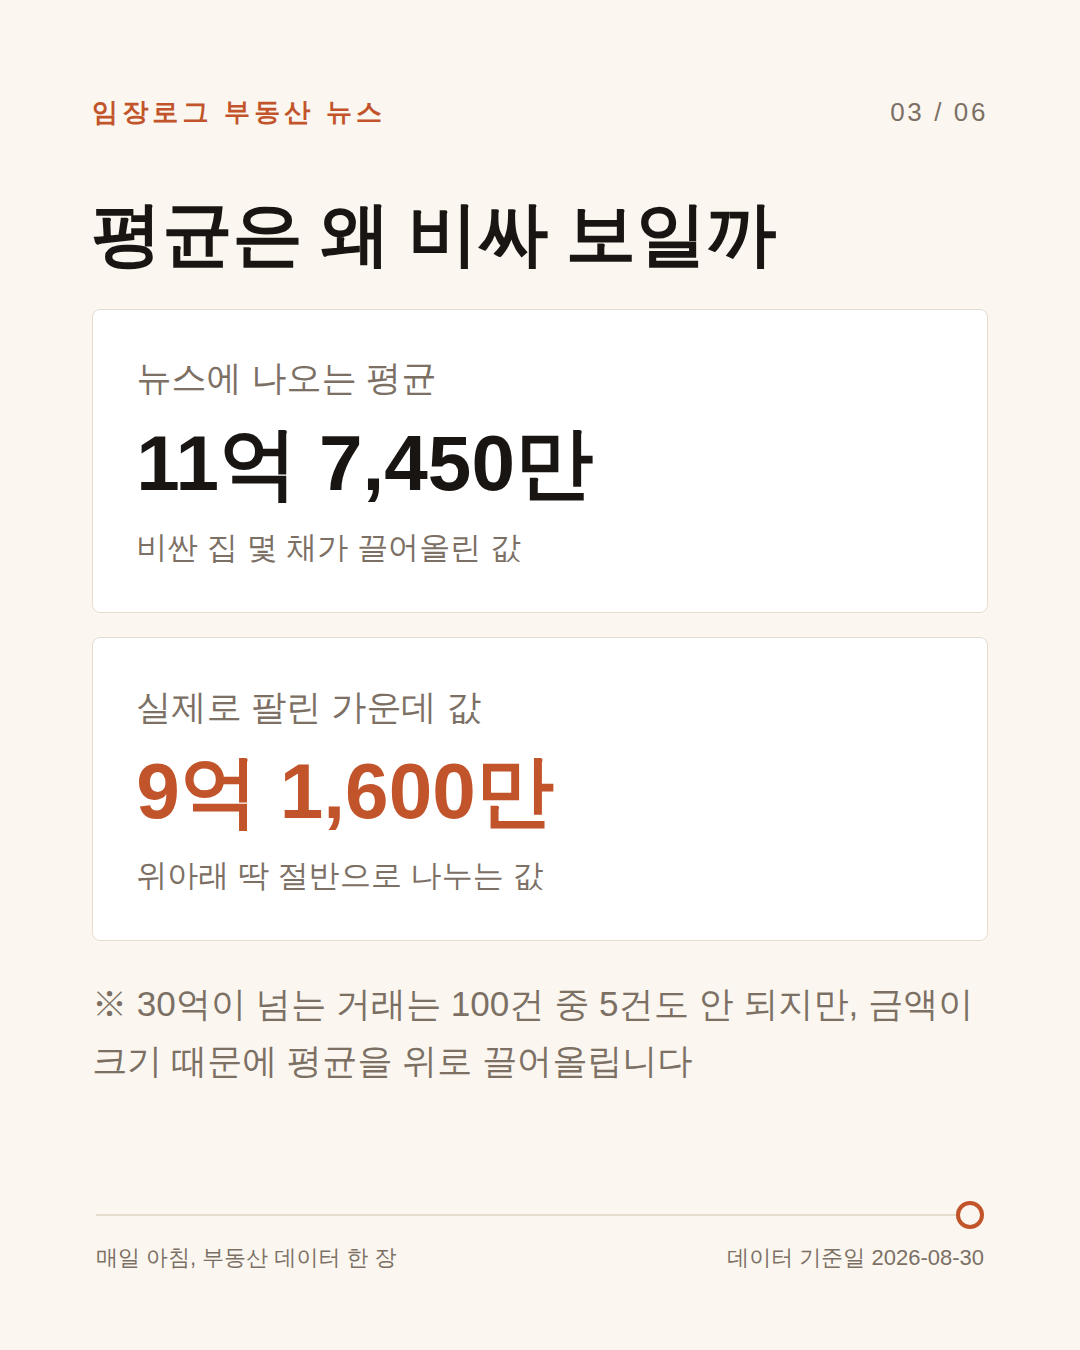
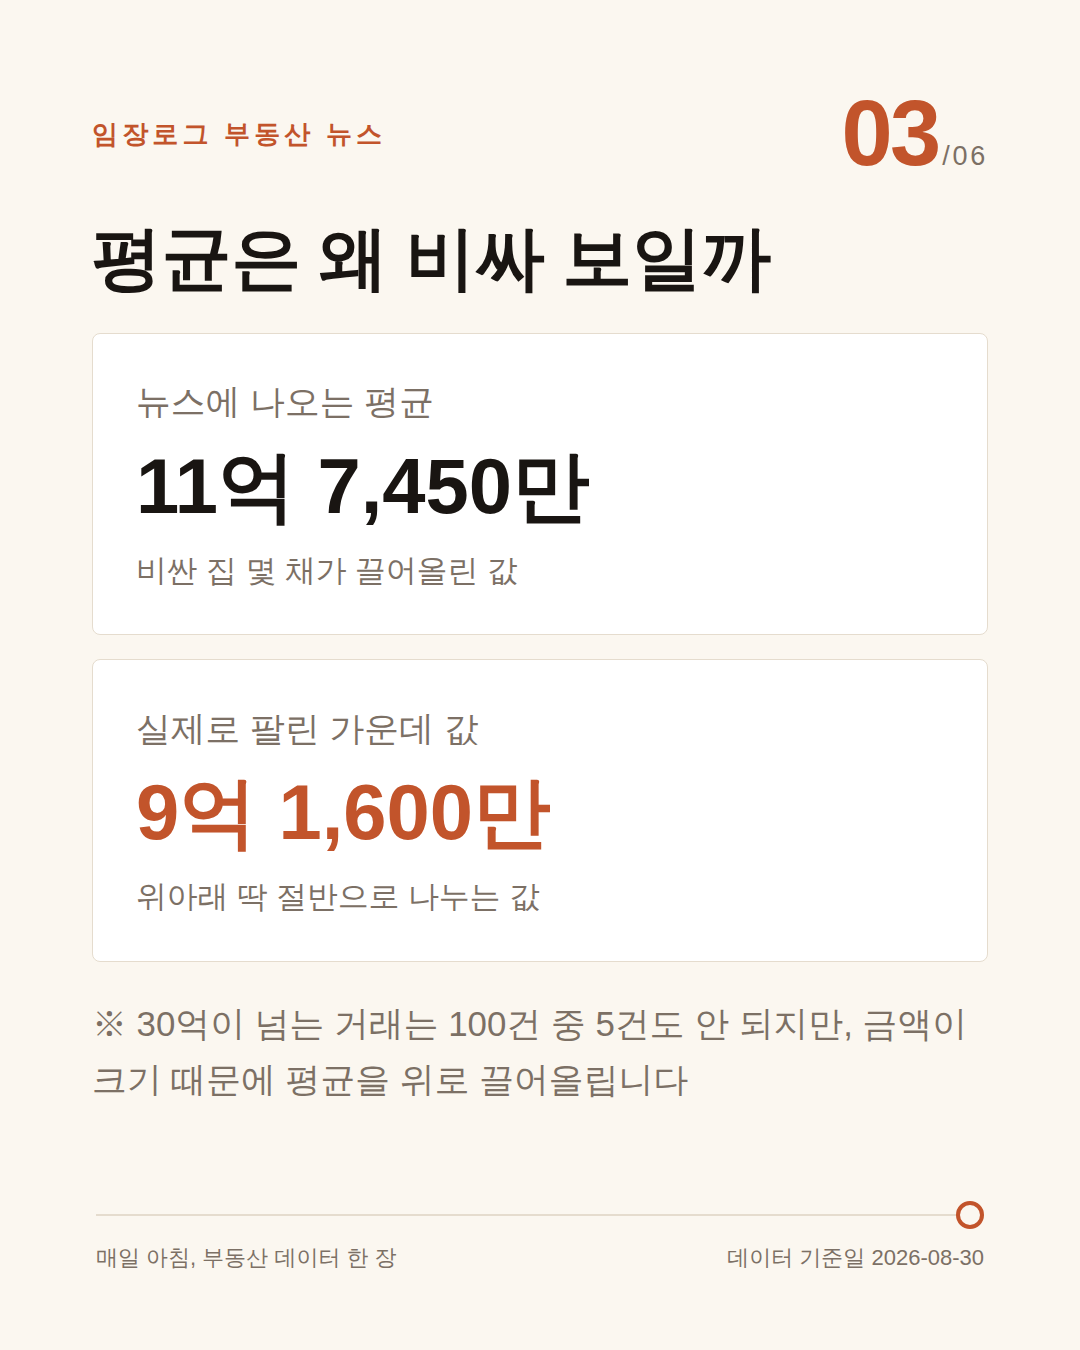
캐러셀 저장 순서가 뒤섞이는 문제 수정
사용자 보고: 이미지를 다운받으면 캐러셀 순서가 섞인다.

■ 원인은 우리 코드가 아니었다 (실측으로 확인)
  페이지는 01→06 순서로 넘긴다. data-files 순서, DOM 순서, Promise.all(순서 보존)
  모두 정상이었다. 문제는 넘긴 뒤다.
  **폰 갤러리와 인스타 사진 선택 화면은 파일명이 아니라 '추가된 시각'으로 정렬한다.**
  6장을 한꺼번에 저장하면 시각이 사실상 같아져 상대 순서가 정해지지 않는다.
  파일명에 01~06을 박아 둬도 아무도 그걸 읽지 않는다.
  기존 코드의 350ms 간격은 초 단위로 기록되는 갤러리에서 같은 초에 몰렸다.

■ 세 겹으로 막았다
  ① 한 장씩 **1.1초 간격**으로 저장한다. 간격이 1초를 넘어야 초 단위 기록에서도
     6장의 시각이 확실히 갈린다. 실측: 1101ms씩 정확히 벌어진다.
  ② **6번부터 거꾸로** 저장한다 → 최신순으로 보이는 목록에서 1번이 맨 앞에 온다.
     실측 저장 순서 06 → 05 → 04 → 03 → 02 → 01.
     공유 시트(iOS)에 넘기는 배열도 같은 이유로 뒤집었다. 사진앱이 배열 순서대로
     시각을 매기면 같은 효과가 나고, 아니어도 손해는 없다.
  ③ **카드 오른쪽 위 번호를 92px로 키웠다** (make_carousel.py, 캐러셀 전용).
     ①②가 기기별로 어긋나더라도 눈으로 순서를 확인할 수 있어야 한다.
     인스타 사진 선택 화면 크기(3열 · 130px 썸네일)로 축소해 판독성을 확인했다.
     1:1 블로그 카드는 26px 그대로다.
  안내 문구도 고쳤다: "1번부터 찾아서 탭" → "맨 앞이 1번, 헷갈리면 큰 번호를 보세요".

■ 곁들여
  어제 글을 복제해 쓰는 구조라 HAS_CSS/HAS_JS 가드가 CSS·JS 재삽입을 막는다.
  도구만 고치면 오늘 글에는 어제 판이 남으므로 오늘 글의 JS 를 도구 현재 버전과
  맞춰 뒀다(릴스 잔재 · 나레이션 배선 포함). 내일부터는 복제로 따라온다.
  작업 중 인스타 JS 블록을 통째로 지웠다가 가드 때문에 재삽입되지 않아 저장 기능이
  사라진 상태를 만들었다. 검증에서 잡아 블록 삭제 대신 국소 패치로 바꿨다.

검증(안드로이드 UA 로 위장해 실제 버튼을 눌러 a[download] 를 가로챘다):
  저장 순서 06→01 · 간격 1101ms 균일 · JS 에러 0
  insta.html → #insta 도착(섹션 top 0) · 캐러셀 6장(1080x1350) 전부 디코드
  본문 복사 3,239자 · [이미지1~6] 완비 · 캡션 섞임 없음 · 줄표 0
  캡션 904자 · 해시태그 15 · 서빙 <img> 7개 · HTTP 404 없음 · 390px 오버플로 없음
  캐러셀 렌더 zoom 1.139~1.350 · 전 카드 over v0 h0

Claude-Session: https://claude.ai/code/session_014FPhCKpii9mVmDWMzN6gma

diff --git a/posts/2026-08-30-jungwi.html b/posts/2026-08-30-jungwi.html
@@ -452,7 +452,8 @@ footer a{color:var(--teal)}
 #아파트매매 #노원구 #강남구 #부동산공부 #부동산정보
 #첫집 #신혼부부 #임장 #부동산초보</pre>
   <p class="cards-hint" style="margin-top:10px">캐러셀은 <b>탭한 순서로 배치</b>됩니다.
-    갤러리는 최신순(6번이 위)으로 보이므로 <b>1번부터 차례로</b> 탭하세요.
+    저장은 <b>6번부터 거꾸로</b> 진행되므로 갤러리 <b>맨 앞이 1번</b>입니다.
+    헷갈리면 카드 오른쪽 위 <b>큰 번호</b>를 보세요. 그게 최종 기준입니다.
     카드별 문안과 캡션 원본은
     <a href="../publish/insta/2026-08-30-jungwi-caption.txt" style="color:var(--teal)">캡션 파일</a>에 있습니다.</p>
 </section>
@@ -640,16 +641,25 @@ footer a{color:var(--teal)}
     return new Blob(local.concat(central,[new Uint8Array(eo.buffer)]),{type:'application/zip'});
   }
   function filesDown(items){
-    /* 안드로이드: 개별 원본을 순차로 내려받는다 (첫 파일 뒤 '여러 파일 다운로드' 확인이 한 번 뜰 수 있음) */
-    items.forEach(function(f,i){
-      setTimeout(function(){
-        var url=URL.createObjectURL(f.blob);
-        var a=document.createElement('a');a.href=url;a.download=f.name;
-        document.body.appendChild(a);a.click();a.remove();
-        setTimeout(function(){URL.revokeObjectURL(url);},4000);
-      }, i*350);
-    });
-    say(items.length+'장을 내려받습니다. 갤러리/다운로드에서 확인하세요 ✓');
+    /* 폰 갤러리와 인스타 사진 선택 화면은 **파일명이 아니라 '추가된 시각'으로 정렬**한다.
+       6장을 한꺼번에 내려받으면 시각이 사실상 같아져 순서가 뒤섞인다(2026-08-30 사용자 보고).
+       ① 한 장씩 1.1초 간격으로 저장한다. 간격이 1초를 넘어야 초 단위로 기록되는
+          갤러리에서도 6장의 시각이 확실히 갈린다 (예전 350ms는 같은 초에 몰렸다)
+       ② **6번부터 거꾸로** 저장한다 → 최신순으로 보이는 목록에서 1번이 맨 앞에 온다 */
+    var seq=items.slice().reverse(), i=0;
+    (function step(){
+      if(i>=seq.length){
+        say(seq.length+'장 저장 완료 · 목록 맨 앞이 1번입니다 ✓');
+        return;
+      }
+      var f=seq[i++];
+      var url=URL.createObjectURL(f.blob);
+      var a=document.createElement('a');a.href=url;a.download=f.name;
+      document.body.appendChild(a);a.click();a.remove();
+      setTimeout(function(){URL.revokeObjectURL(url);},4000);
+      setTimeout(step,1100);
+    })();
+    say(items.length+'장을 한 장씩 저장합니다 (약 '+Math.ceil(items.length*1.1)+'초)');
   }
   function zipDown(items,btn){
     var sec=document.getElementById('insta');
@@ -682,7 +692,9 @@ footer a{color:var(--teal)}
         });
       });
     })).then(function(items){
-      var fl=items.map(function(f){
+      /* 공유 시트도 뒤에서부터 넘긴다: 사진앱이 배열 순서대로 시각을 매기면
+         1번이 가장 최신이 되어 최신순 목록의 맨 앞에 온다. */
+      var fl=items.slice().reverse().map(function(f){
         return new File([f.blob],f.name,{type:'image/png'});
       });
       if(MODE==='share'&&navigator.canShare({files:fl})){

diff --git a/tools/add_insta_section.py b/tools/add_insta_section.py
@@ -111,7 +111,8 @@ SECTION = f'''<div class="trace"></div>
     {capbtn}</div>
   <pre id="instacap" hidden>{captext}</pre>
   <p class="cards-hint" style="margin-top:10px">캐러셀은 <b>탭한 순서로 배치</b>됩니다.
-    갤러리는 최신순(6번이 위)으로 보이므로 <b>1번부터 차례로</b> 탭하세요.
+    저장은 <b>6번부터 거꾸로</b> 진행되므로 갤러리 <b>맨 앞이 1번</b>입니다.
+    헷갈리면 카드 오른쪽 위 <b>큰 번호</b>를 보세요. 그게 최종 기준입니다.
     카드별 문안과 캡션 원본은
     <a href="../publish/insta/{POST.stem}-caption.txt" style="color:var(--teal)">캡션 파일</a>에 있습니다.</p>
 </section>
@@ -214,16 +215,25 @@ JS = r"""  /* ── 인스타 이미지 생성 (HTML에 img 태그를 남기지
     return new Blob(local.concat(central,[new Uint8Array(eo.buffer)]),{type:'application/zip'});
   }
   function filesDown(items){
-    /* 안드로이드: 개별 원본을 순차로 내려받는다 (첫 파일 뒤 '여러 파일 다운로드' 확인이 한 번 뜰 수 있음) */
-    items.forEach(function(f,i){
-      setTimeout(function(){
-        var url=URL.createObjectURL(f.blob);
-        var a=document.createElement('a');a.href=url;a.download=f.name;
-        document.body.appendChild(a);a.click();a.remove();
-        setTimeout(function(){URL.revokeObjectURL(url);},4000);
-      }, i*350);
-    });
-    say(items.length+'장을 내려받습니다. 갤러리/다운로드에서 확인하세요 ✓');
+    /* 폰 갤러리와 인스타 사진 선택 화면은 **파일명이 아니라 '추가된 시각'으로 정렬**한다.
+       6장을 한꺼번에 내려받으면 시각이 사실상 같아져 순서가 뒤섞인다(2026-08-30 사용자 보고).
+       ① 한 장씩 1.1초 간격으로 저장한다. 간격이 1초를 넘어야 초 단위로 기록되는
+          갤러리에서도 6장의 시각이 확실히 갈린다 (예전 350ms는 같은 초에 몰렸다)
+       ② **6번부터 거꾸로** 저장한다 → 최신순으로 보이는 목록에서 1번이 맨 앞에 온다 */
+    var seq=items.slice().reverse(), i=0;
+    (function step(){
+      if(i>=seq.length){
+        say(seq.length+'장 저장 완료 · 목록 맨 앞이 1번입니다 ✓');
+        return;
+      }
+      var f=seq[i++];
+      var url=URL.createObjectURL(f.blob);
+      var a=document.createElement('a');a.href=url;a.download=f.name;
+      document.body.appendChild(a);a.click();a.remove();
+      setTimeout(function(){URL.revokeObjectURL(url);},4000);
+      setTimeout(step,1100);
+    })();
+    say(items.length+'장을 한 장씩 저장합니다 (약 '+Math.ceil(items.length*1.1)+'초)');
   }
   function zipDown(items,btn){
     var sec=document.getElementById('insta');
@@ -256,7 +266,9 @@ JS = r"""  /* ── 인스타 이미지 생성 (HTML에 img 태그를 남기지
         });
       });
     })).then(function(items){
-      var fl=items.map(function(f){
+      /* 공유 시트도 뒤에서부터 넘긴다: 사진앱이 배열 순서대로 시각을 매기면
+         1번이 가장 최신이 되어 최신순 목록의 맨 앞에 온다. */
+      var fl=items.slice().reverse().map(function(f){
         return new File([f.blob],f.name,{type:'image/png'});
       });
       if(MODE==='share'&&navigator.canShare({files:fl})){

diff --git a/tools/make_carousel.py b/tools/make_carousel.py
@@ -7,7 +7,7 @@
 
 캐러셀은 릴스와 달리 하단 UI가 이미지를 덮지 않으므로 여백을 고르게 쓴다.
 """
-import pathlib, sys
+import pathlib, re, sys
 
 from make_cards import VFRAME_CSS, fit_script
 
@@ -15,11 +15,21 @@ BASE = pathlib.Path(__file__).parent
 SLUG = sys.argv[1]
 THEMES = sys.argv[2:] or ["insta"]
 
+# 카드 번호를 갤러리 썸네일에서도 읽을 수 있게 키운다.
+#
+# 폰 갤러리와 인스타 사진 선택 화면은 **파일명이 아니라 '추가된 시각'으로 정렬**한다.
+# 6장을 한 번에 저장하면 시각이 사실상 같아져 순서가 뒤섞이고, 그러면 어느 게 1번인지
+# 알 방법이 없다(2026-08-30 사용자 보고). 저장 순서도 고쳤지만, 마지막 근거는
+# 카드에 적힌 번호다. 1:1 카드(블로그)는 건드리지 않고 캐러셀에서만 키운다.
 EXTRA = """
 html,body{height:1350px}
 body{padding:92px 92px 200px}
 .footwrap{bottom:66px}
 .mid{padding:20px 0}
+.top{align-items:center}
+.pnum{font-size:27px;display:flex;align-items:baseline;gap:4px}
+.pnum b{font-size:92px;font-weight:900;line-height:.9;letter-spacing:-.03em;
+  color:var(--accent);font-family:inherit}
 """ + VFRAME_CSS
 
 n = 0
@@ -29,6 +39,10 @@ for th in THEMES:
     for f in sorted(src.glob(f"{SLUG}-*.html")):
         html = f.read_text(encoding="utf-8").replace("</style>", EXTRA + "</style>", 1)
         html = html.replace("</body>", fit_script(0.97, 1.35) + "</body>", 1)
+        # "01 / 06" 의 앞 숫자만 크게 (뒤 '/06' 은 작게 남겨 맥락을 준다)
+        html, k = re.subn(r'<div class="pnum">\s*(\d+)\s*/\s*(\d+)\s*</div>',
+                          r'<div class="pnum"><b>\1</b>/\2</div>', html, count=1)
+        assert k == 1, f"{f.name}: 카드 번호(.pnum)를 찾지 못했습니다"
         (out / f.name).write_text(html, encoding="utf-8")
         n += 1
 print("wrote", n, "carousel pages")
